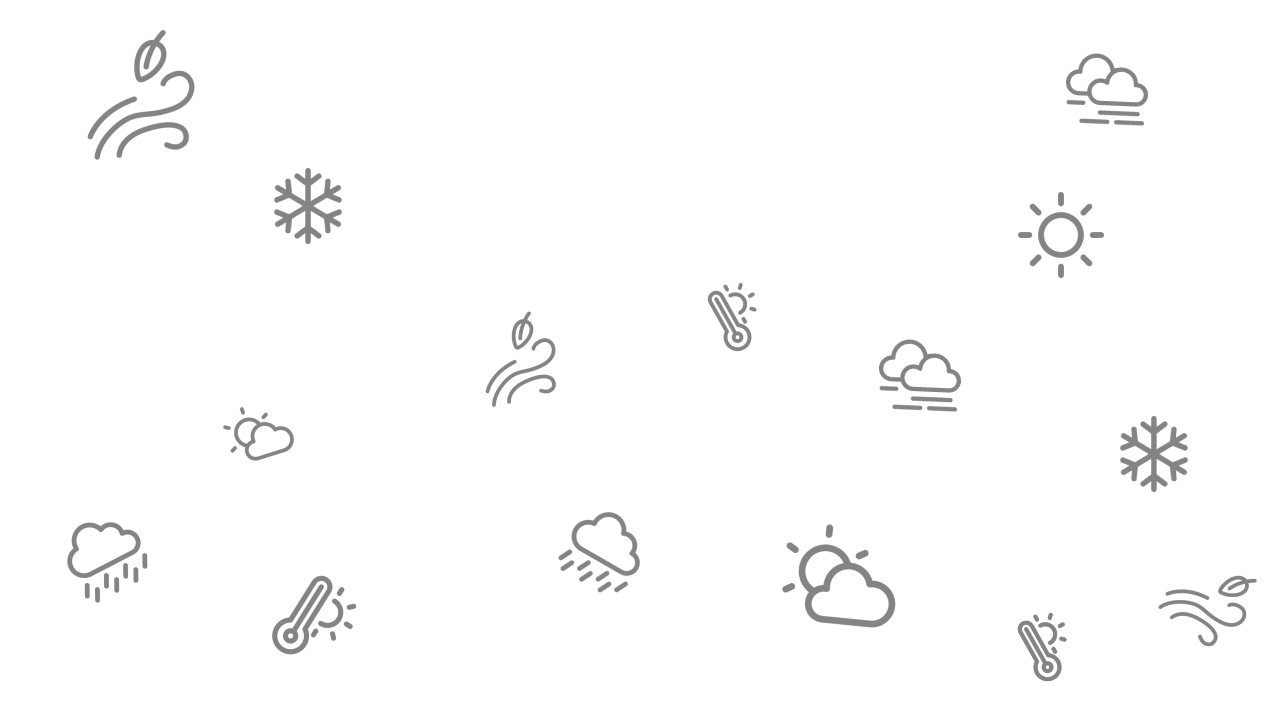
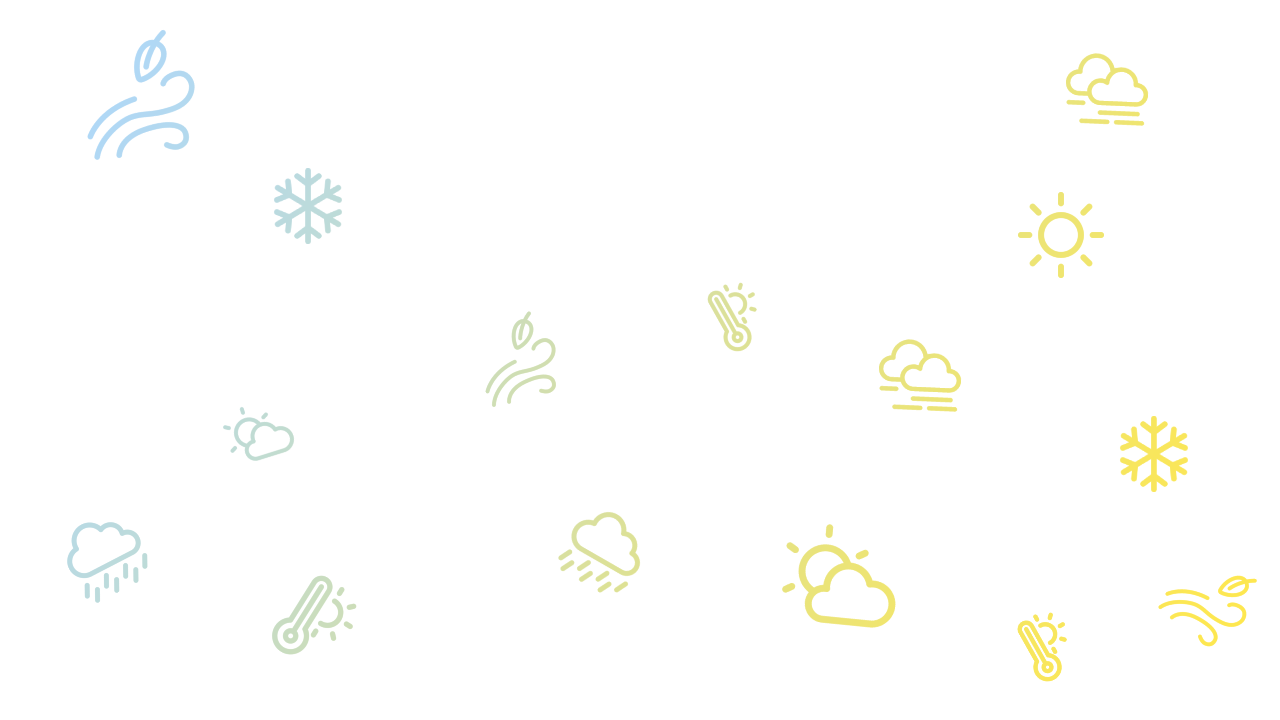
First coloring session

diff --git a/market/static/css/style.css b/market/static/css/style.css
@@ -102,7 +102,7 @@ button, .navbarLinks a{
 
     padding: 10px;
 
-    background-color: black;
+    background-color:#47a0f4 ;
 
 }
 
@@ -202,7 +202,7 @@ button, .navbarLinks a{
     justify-content: space-between;
     gap: 30px;
 
-
+    background-color: #fef9f0;
 }
 
 
@@ -228,6 +228,21 @@ button, .navbarLinks a{
     font-family: 'Cormorant Garamond', serif;
     padding-bottom: 20px;
 
+}
+
+.hero #startButton{
+    padding: 20px;
+    color: black;
+    border-color: black;
+    background-color: #ff875e;
+
+}
+
+.hero #startButton:hover{
+    padding: 20px;
+    color: white;
+    background-color: #ff875e;
+    border-color:black;
 }
 
 /*Feature section*/
@@ -265,8 +280,8 @@ button, .navbarLinks a{
     justify-content: space-around;
 
     margin-left: 50px;
-    background-color: white;
-    border: 5px dotted black;
+    background-color:#fef9f0;
+    border: 5px dotted #ff875e;
     border-radius: 20px;
     padding: 20px;
 
@@ -298,7 +313,7 @@ button, .navbarLinks a{
     padding: 20px;
     flex-direction: column;
 
-    background-color: black;
+    background-color: #a3d3ff;
 
     padding: 20px;
 
@@ -317,7 +332,7 @@ button, .navbarLinks a{
     font-size: 48px;
     font-style: italic;
     font-family: 'Kalam', cursive;
-    color: white;
+    color: black;
 
 }
 
@@ -327,7 +342,7 @@ button, .navbarLinks a{
 
     font-size: 16px;
     font-family: 'Proza Libre', sans-serif;
-    color: white;
+    color: black;
 
 }
 
@@ -402,27 +417,28 @@ button, .navbarLinks a{
     padding: 20px;
     border-radius: 20px;
 
-    background-color: black;
+    background-color: #a3d3ff;
 
 }
 .ctaMain #startButton{
     padding: 20px;
-    color: white;
-    border-color: white;
+    color: black;
+    border-color: black;
+    background-color: #ff875e;
 
 }
 
 .ctaMain #startButton:hover{
     padding: 20px;
-    color: black;
-    background-color: white;
-    border-color: black;
+    color: white;
+    background-color: #ff875e;
+    border-color:black;
 }
 .ctaText{
     width: 50%;
     font-family: 'Abel', sans-serif;
     font-size: 32px;
-    color: white;
+    color: black;
 
 }
 
@@ -452,10 +468,15 @@ button, .navbarLinks a{
     justify-content: flex-start;
     gap: 30px;
     padding: 20px;
-    background-color: white;
+    background-color: #ffecc8;
 
     font-family: 'Cormorant Garamond', serif;
+}
 
+.techCont{
+    padding: 20px;
+    background-color: #ffecc8;
+    border-radius: 20px;   
 }
 
 .techImg{
@@ -502,13 +523,13 @@ button, .navbarLinks a{
     justify-content: center;
     gap: 20px;
 
-    background-color: black;
+    background-color: #fee53e;
 
 }
 
 .footerCopy{
     font-size: 20px;
-    color: white;
+    color: black;
     font-family: 'Abel', sans-serif;
 
 
@@ -516,8 +537,8 @@ button, .navbarLinks a{
 
 .footerA{
     margin: 0px 20px;
-    color: white;
-    border-bottom: 2px dotted white;
+    color: black;
+    border-bottom: 5px dotted #ff875e;
     font-family: 'Abel', sans-serif;
 
 
